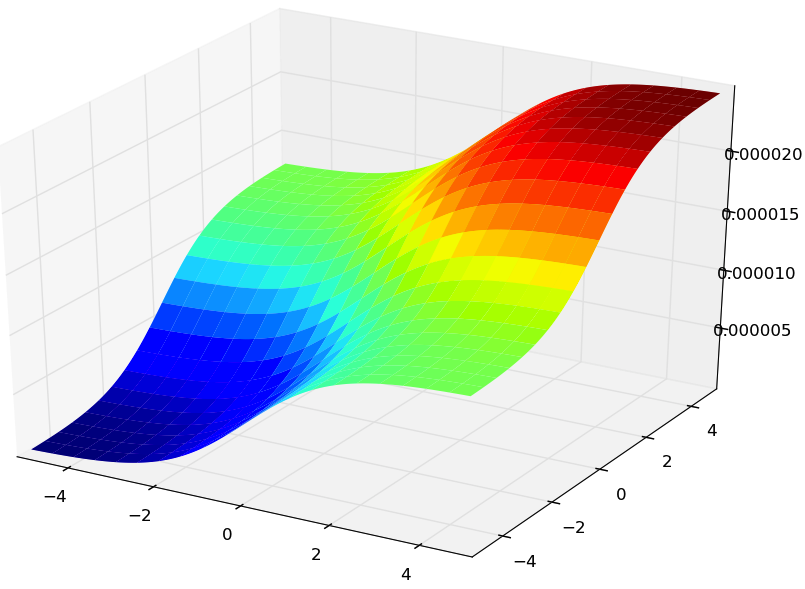
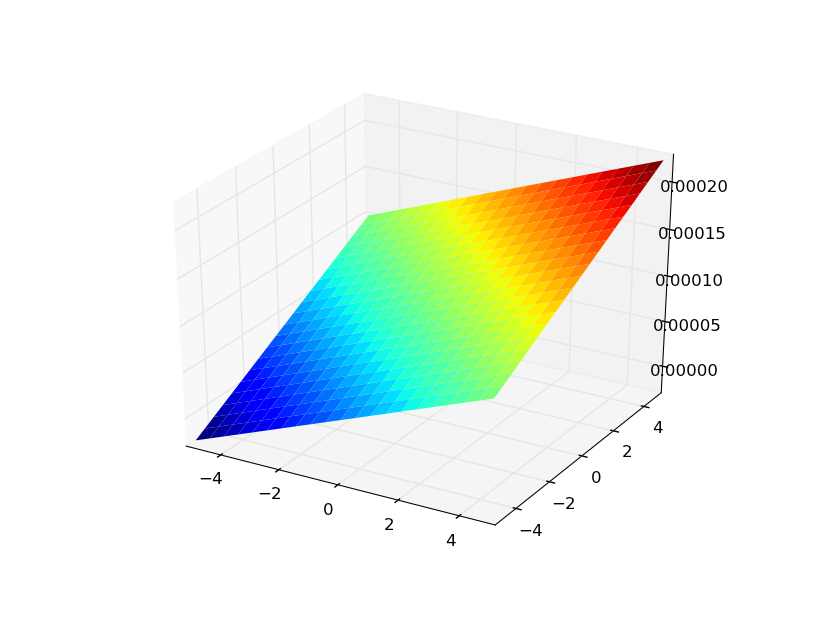
updated hw4 q9. Started project2. Finished the data network activation and initialization functions.

diff --git a/hw4/q9.py b/hw4/q9.py
@@ -18,9 +18,9 @@ outputs = [[0,0],[0,0]]
 def activate(x): 
     for i,val in enumerate(x): 
         
-        outputs[0][i] = sig(val) 
+        outputs[0][i] = val 
     
-    mult = .00001   
+    mult = .01   
     for j in range(0,len(hidden)): 
         n = sum([mult*x*w for x,w in zip(outputs[0],weights[0][j])]) 
         outputs[1][j] = sig(n)
